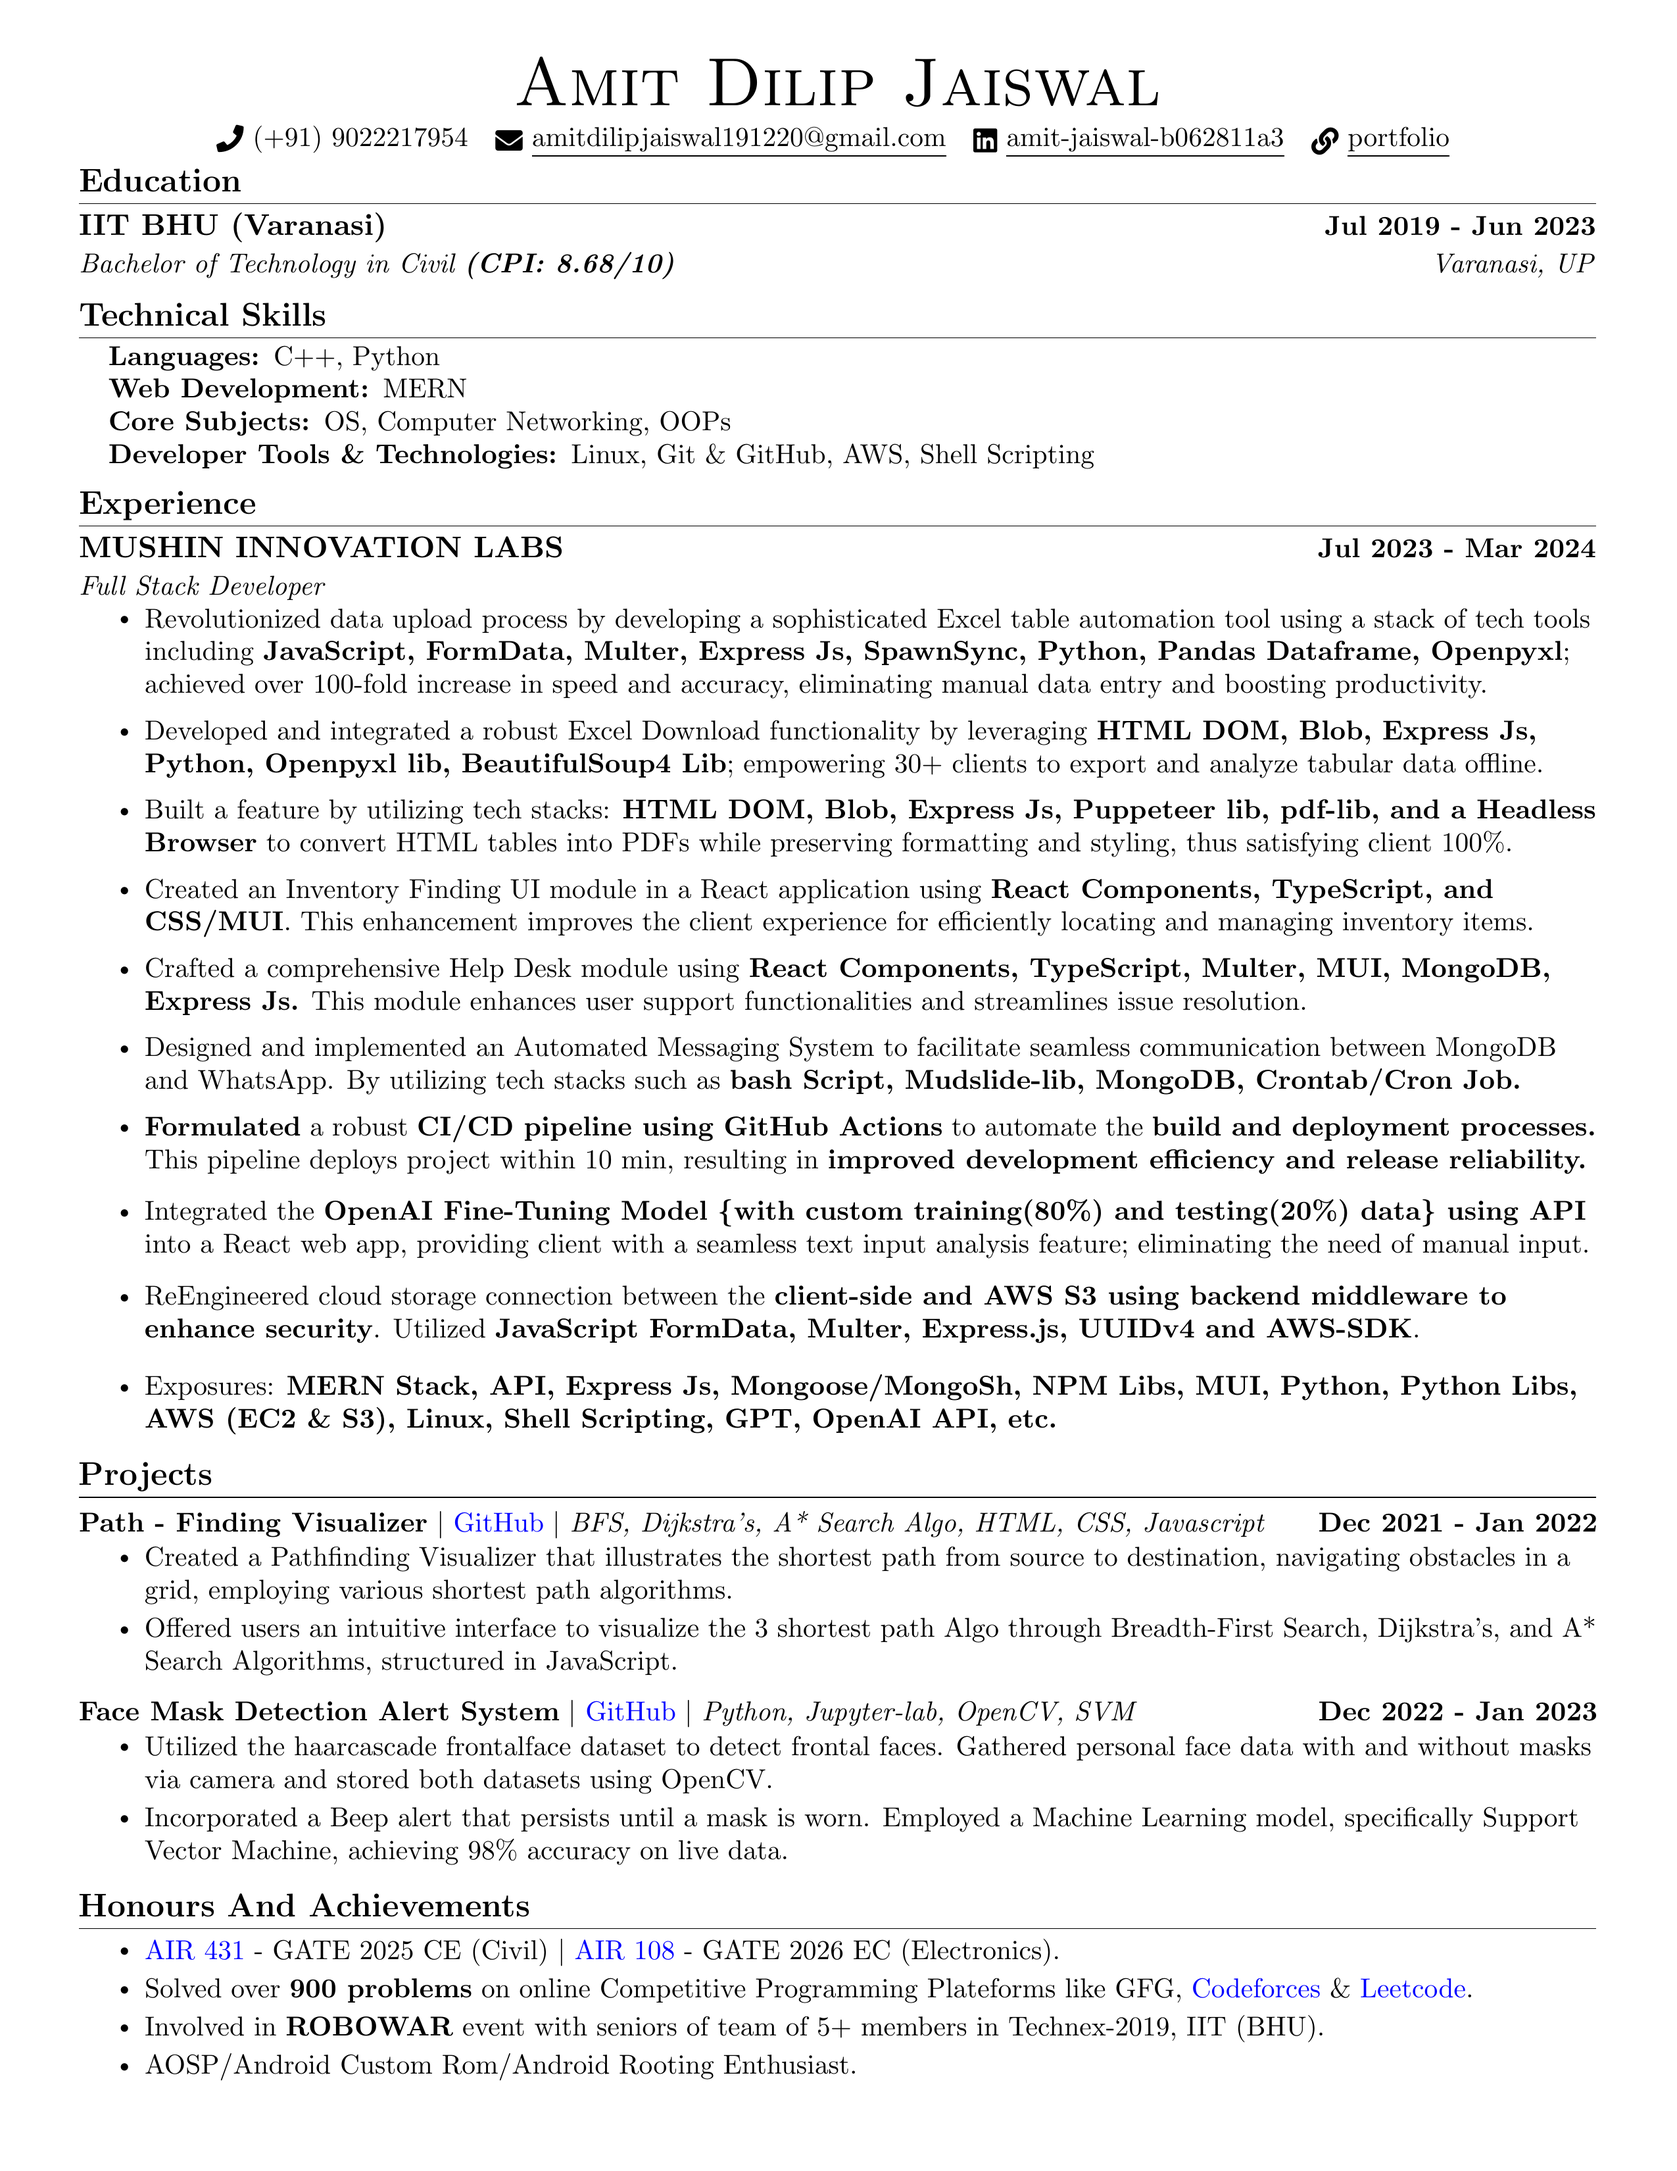
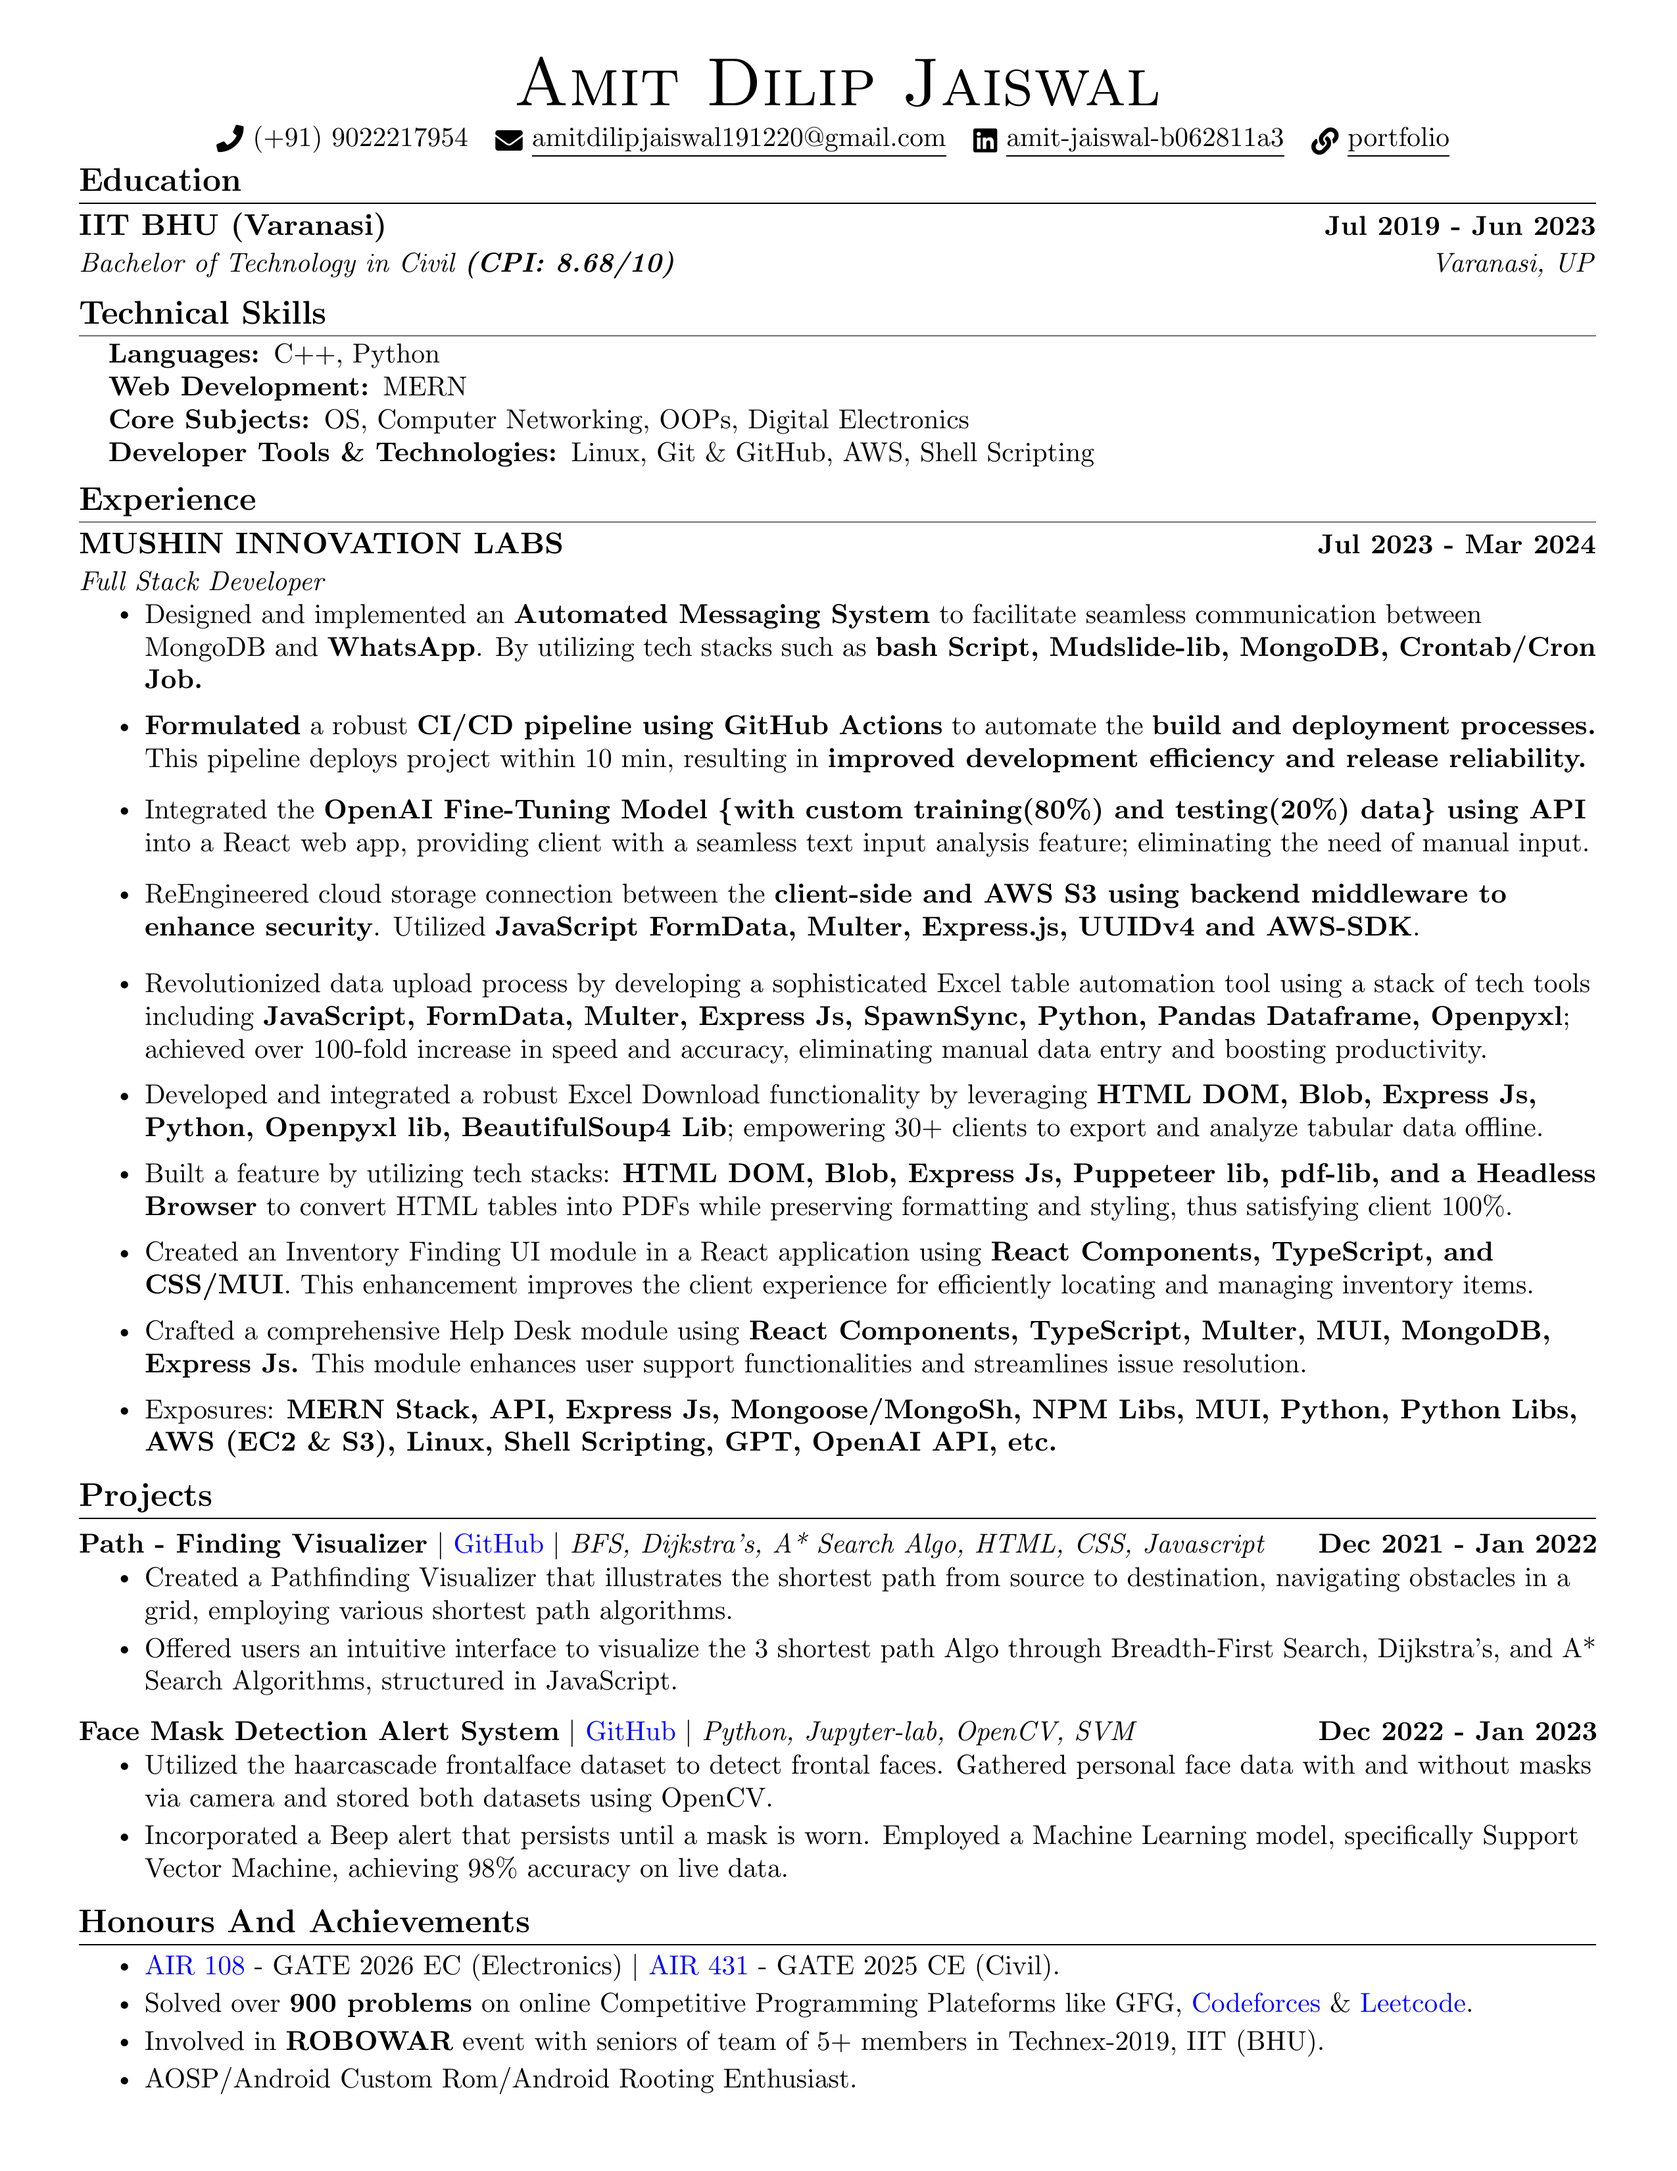
v3

Changed region(s): [[0.031, 0.1248, 0.9604, 0.9676]]

diff --git a/resume.tex b/resume.tex
@@ -147,8 +147,9 @@
     \small{\item{
     \textbf{Languages: }{C++, Python} \\
     \textbf{Web Development: }{MERN}\\
-     \textbf{Core Subjects: }{OS, Computer Networking, OOPs} \\
+     \textbf{Core Subjects: }{OS, Computer Networking, OOPs, Digital Electronics} \\
      \textbf{Developer Tools \& Technologies: }{Linux, Git \& GitHub, AWS, Shell Scripting} \\
+    
      
     }}
     
@@ -166,6 +167,20 @@
       {Full Stack Developer}{}
       \vspace{-7pt}
       \resumeItemListStart
+
+      
+        \resumeItem{Designed and implemented an \textbf{Automated Messaging System} to facilitate seamless communication between MongoDB and \textbf{WhatsApp}. By utilizing tech stacks such as \textbf{bash Script, Mudslide-lib, MongoDB, Crontab/Cron Job.}}
+        \vspace{3pt}
+
+        \resumeItem{\textbf{Formulated} a robust \textbf{CI/CD pipeline using GitHub Actions} to automate the \textbf{build and deployment processes.} This pipeline deploys project within 10 min, resulting in \textbf{improved development efficiency and release reliability.}}
+        \vspace{-7pt}
+        
+        \resumeItem{Integrated the \textbf{OpenAI Fine-Tuning Model \{with custom training(80\%) and testing(20\%) data\} using API} into a React web app, providing client with a seamless text input analysis feature; eliminating the need of manual input.}
+        \vspace{-7pt}
+
+        \resumeItem{ReEngineered cloud storage connection between the \textbf{client-side and AWS S3 using backend middleware to enhance security}. Utilized \textbf{JavaScript FormData, Multer, Express.js, UUIDv4 and AWS-SDK}.}
+        \vspace{7pt}
+        
         \resumeItem{Revolutionized data upload process by developing a sophisticated Excel table automation tool using a stack of tech tools including \textbf{JavaScript, FormData, Multer, Express Js, SpawnSync, Python, Pandas Dataframe, Openpyxl}; achieved over 100-fold increase in speed and accuracy, eliminating manual data entry and boosting productivity.}
         \vspace{3pt}
         \resumeItem{Developed and integrated a robust Excel Download functionality by leveraging \textbf{HTML DOM, Blob, Express Js, Python, Openpyxl lib, BeautifulSoup4 Lib}; empowering 30+ clients to export and analyze tabular data offline.}
@@ -180,17 +195,6 @@
         \resumeItem{Crafted a comprehensive Help Desk module using \textbf{React Components, TypeScript, Multer, MUI, MongoDB, Express Js.} This module enhances user support functionalities and streamlines issue resolution.}
         \vspace{3pt}
         
-        \resumeItem{Designed and implemented an Automated Messaging System to facilitate seamless communication between MongoDB and WhatsApp. By utilizing tech stacks such as \textbf{bash Script, Mudslide-lib, MongoDB, Crontab/Cron Job.}}
-        \vspace{3pt}
-
-        \resumeItem{\textbf{Formulated} a robust \textbf{CI/CD pipeline using GitHub Actions} to automate the \textbf{build and deployment processes.} This pipeline deploys project within 10 min, resulting in \textbf{improved development efficiency and release reliability.}}
-        \vspace{-7pt}
-        
-        \resumeItem{Integrated the \textbf{OpenAI Fine-Tuning Model \{with custom training(80\%) and testing(20\%) data\} using API} into a React web app, providing client with a seamless text input analysis feature; eliminating the need of manual input.}
-        \vspace{-7pt}
-
-        \resumeItem{ReEngineered cloud storage connection between the \textbf{client-side and AWS S3 using backend middleware to enhance security}. Utilized \textbf{JavaScript FormData, Multer, Express.js, UUIDv4 and AWS-SDK}.}
-        \vspace{7pt}
         \resumeItem{Exposures: \textbf{MERN Stack, API, Express Js, Mongoose/MongoSh, NPM Libs, MUI, Python, Python Libs, AWS (EC2 \& S3), Linux, Shell Scripting, GPT, OpenAI API, etc.}}
       \resumeItemListEnd
 
@@ -241,8 +245,8 @@
         \vspace{-28pt}
         \resumeItemListStart
         
-      \resumeItem{{\href{https://drive.google.com/file/d/1zOMjQaw3C_-2_a4M0_DV5K0YoMf7pjv4/view?usp=drive_link}{\textcolor{blue}{AIR 431}}} - GATE 2025 CE (Civil) $|$ 
-      {\href{https://drive.google.com/file/d/1Luh82S3-_I_xaDixtR3UqCZ3TmnUoq1f/view?usp=drive_link}{\textcolor{blue}{AIR 108}}} - GATE 2026 EC (Electronics).} 
+      \resumeItem{
+      {\href{https://drive.google.com/file/d/1Luh82S3-_I_xaDixtR3UqCZ3TmnUoq1f/view?usp=drive_link}{\textcolor{blue}{AIR 108}}} - GATE 2026 EC (Electronics) $|$ {\href{https://drive.google.com/file/d/1zOMjQaw3C_-2_a4M0_DV5K0YoMf7pjv4/view?usp=drive_link}{\textcolor{blue}{AIR 431}}} - GATE 2025 CE (Civil).} 
       
       \resumeItem{Solved over \textbf{900 problems} on online Competitive Programming Plateforms like GFG, {\href{https://codeforces.com/profile/BoRoS4444}{\textcolor{blue}{Codeforces}}} \&  {\href{https://leetcode.com/BoRoS4444/}{\textcolor{blue}{Leetcode}}}.}
         \resumeItem{Involved in \textbf{ROBOWAR} event with seniors of team of 5+ members in Technex-2019, IIT (BHU).}
